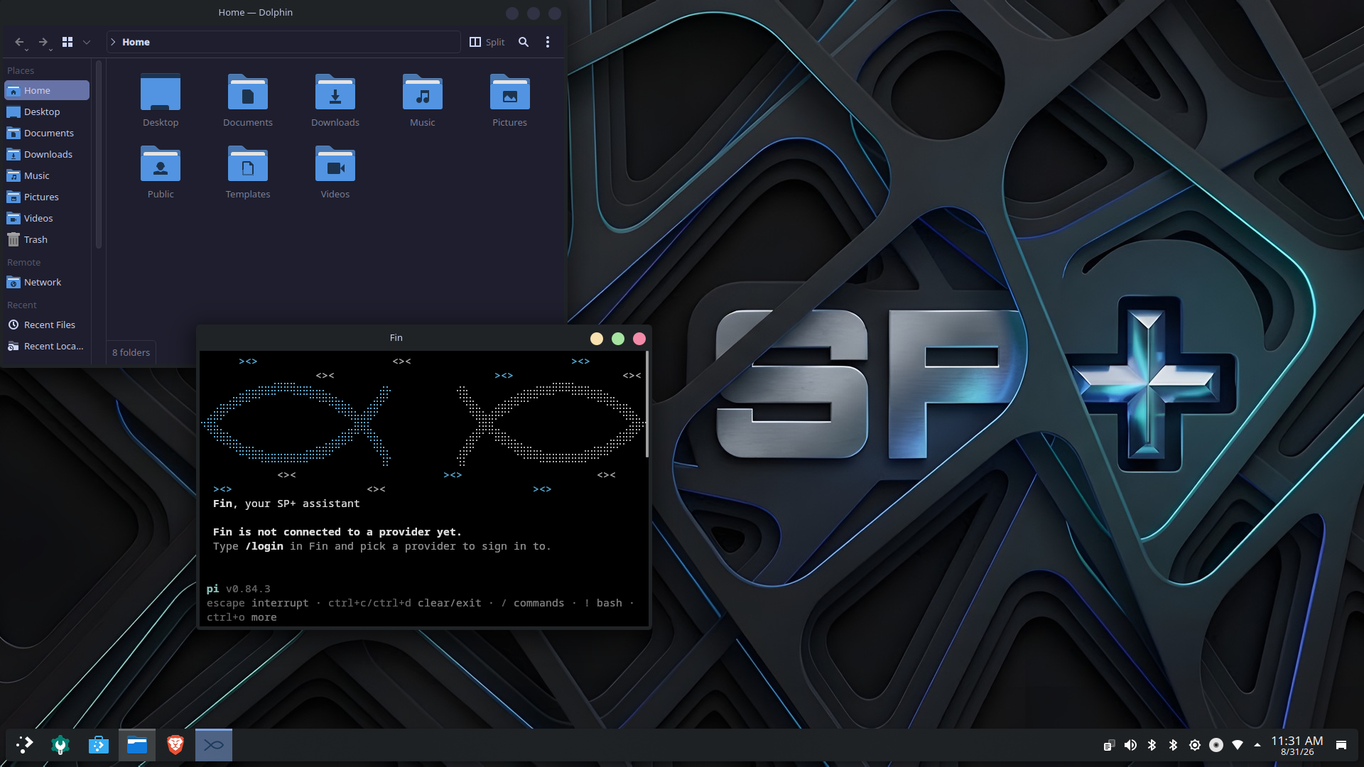
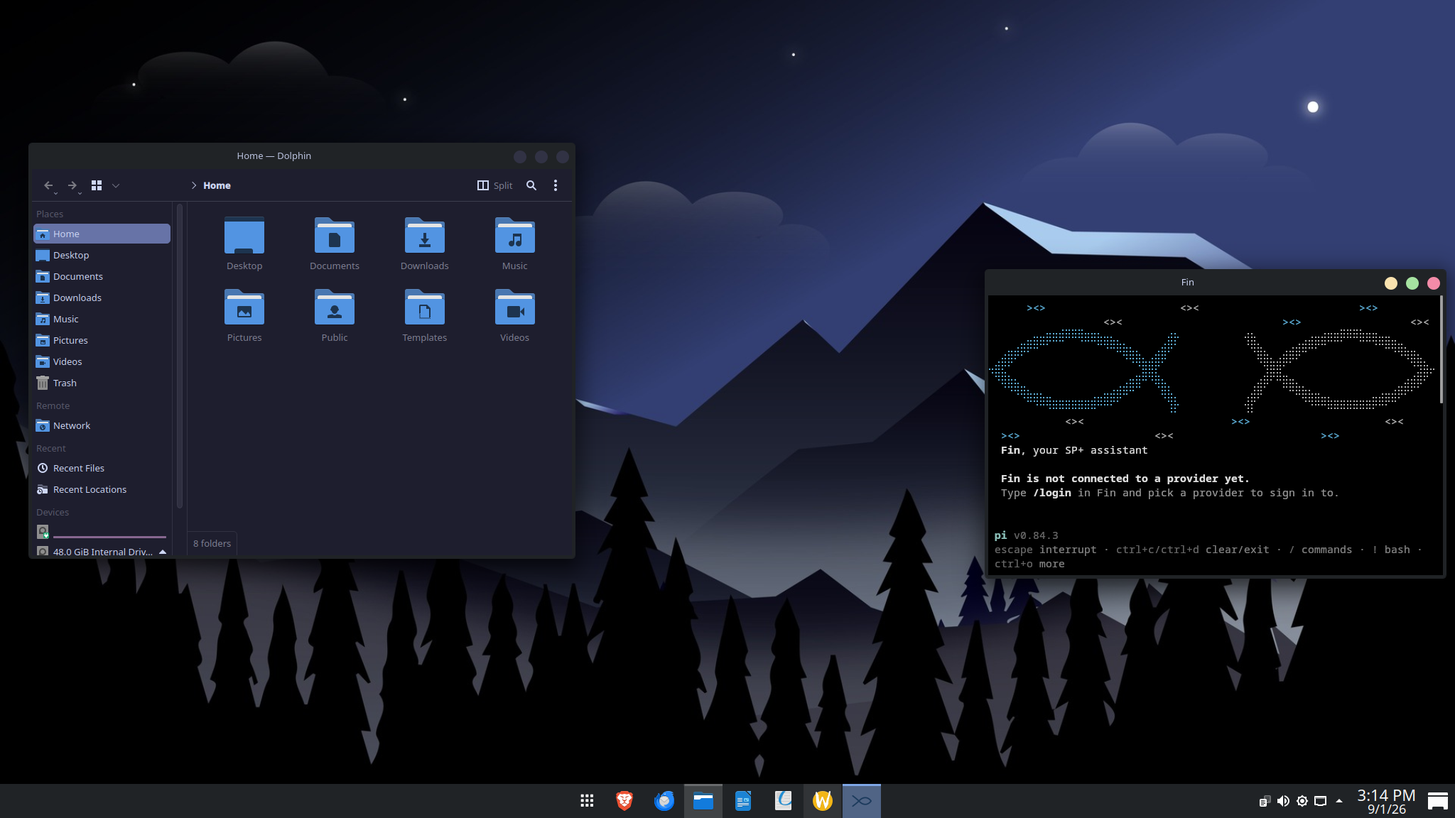
New theme previews and mini cards that show the theme
Eight fresh desktop previews, one per theme on the Welcome look screen,
2048x1152. Christopher staged each composition himself and I captured it
and drove the switch between shots, so every image is the real applied
session with its own wallpaper, window style, panel and Fin showing its
ichthys mark.

The mini cards no longer carry an abstract three-bar swatch. Each is a
miniature desktop: the theme's actual wallpaper as the ground, a thin
panel strip and a small window in the theme's own colours. Christopher's
complaint was that a card told an advisor nothing before they clicked
it, and three stacked rectangles are identical across eight themes while
the wallpaper is the thing that differs.

The first attempt at this failed and was sent back: the window mock
covered the middle two thirds of a 48px scene, so the wallpaper survived
only as slivers at the edges. The second inverts the balance, and adds a
per-theme object-position because a centre crop clips the moon in the
winter scene and the boat in the Breeze Dark one. It also clipped the
card taglines by 4px paying for the taller image out of the text plate;
the layout gate caught that, and the scene gave the 4px back.

Also logs a real defect found while testing rather than shipped past:
plasmashell segfaults in Mesa's software rasteriser during repeated
theme churn, three times in about eighty switches on the GPU-less VM.
Every wallpaper check passed in the crashing runs, so it recovers rather
[…]

diff --git a/projects/sp-plus/welcome/app/index.html b/projects/sp-plus/welcome/app/index.html
@@ -47,11 +47,11 @@
           <header class="page-title theme-page-title"><div><h1 id="look-title">CHOOSE THE LOOK<br>THAT FITS YOUR WORK.</h1><p>Each choice changes the whole desktop, not just the colours. You can change it later in System Settings.</p></div><div class="title-stamp"><span>A GOOD PLACE TO START</span><strong>WINDOWS DARK</strong></div></header>
           <section class="theme-choice" aria-labelledby="theme-choice-heading">
             <div class="choice-head"><h2 id="theme-choice-heading">START WITH WHAT FEELS FAMILIAR.</h2><p>A familiar place to begin.</p></div>
-            <div class="theme-gallery lead-gallery" role="radiogroup" aria-label="Familiar desktop themes"><button class="theme-card lead" role="radio" aria-checked="false" data-lnf="org.secureprospective.spplus.windows11.light" data-theme="WINDOWS LIGHT" data-preview="assets/theme-previews/windows-light.png" data-layout-reset="true" data-cursor-note="The mouse pointer stays standard for Windows Modern." style="--sw-bg:#f9f9f9;--sw-fg:#1e1e1e;--sw-view:#ffffff;--sw-accent:#0067c0"><span class="swatch" aria-hidden="true"><i class="sw-bar"></i><i class="sw-view"></i><i class="sw-accent"></i></span><span class="theme-meta"><b>WINDOWS LIGHT</b><small>A familiar starting point</small><em>A familiar layout with a lighter feel.</em></span></button><button class="theme-card lead selected" role="radio" aria-checked="true" data-lnf="org.secureprospective.spplus.windows11.dark" data-theme="WINDOWS DARK" data-preview="assets/theme-previews/windows-dark.png" data-layout-reset="true" data-cursor-note="The mouse pointer stays standard for Windows Modern." style="--sw-bg:#202020;--sw-fg:#ffffff;--sw-view:#202020;--sw-accent:#4cc2ff"><span class="swatch" aria-hidden="true"><i class="sw-bar"></i><i class="sw-view"></i><i class="sw-accent"></i></span><span class="theme-meta"><b>WINDOWS DARK</b><small>A familiar starting point</small><em>The same familiar layout, with less glare.</em></span></button></div>
+            <div class="theme-gallery lead-gallery" role="radiogroup" aria-label="Familiar desktop themes"><button class="theme-card lead" role="radio" aria-checked="false" data-lnf="org.secureprospective.spplus.windows11.light" data-theme="WINDOWS LIGHT" data-preview="assets/theme-previews/windows-light.png" data-layout-reset="true" data-cursor-note="The mouse pointer stays standard for Windows Modern." style="--sw-bg:#f9f9f9;--sw-fg:#1e1e1e;--sw-view:#ffffff;--sw-accent:#0067c0"><span class="swatch" aria-hidden="true"><img src="assets/theme-thumbs/windows-light.jpg" alt=""><i class="sw-bar"></i><i class="sw-view"></i><i class="sw-accent"></i></span><span class="theme-meta"><b>WINDOWS LIGHT</b><small>A familiar starting point</small><em>A familiar layout with a lighter feel.</em></span></button><button class="theme-card lead selected" role="radio" aria-checked="true" data-lnf="org.secureprospective.spplus.windows11.dark" data-theme="WINDOWS DARK" data-preview="assets/theme-previews/windows-dark.png" data-layout-reset="true" data-cursor-note="The mouse pointer stays standard for Windows Modern." style="--sw-bg:#202020;--sw-fg:#ffffff;--sw-view:#202020;--sw-accent:#4cc2ff"><span class="swatch" aria-hidden="true"><img src="assets/theme-thumbs/windows-dark.jpg" alt=""><i class="sw-bar"></i><i class="sw-view"></i><i class="sw-accent"></i></span><span class="theme-meta"><b>WINDOWS DARK</b><small>A familiar starting point</small><em>The same familiar layout, with less glare.</em></span></button></div>
             <div class="choice-head split"><h2>OR CHOOSE A LOOK BUILT FOR LONG DAYS.</h2><p>These options keep windows distinct and important cues easy to spot.</p></div>
             <div class="theme-columns">
-              <div class="theme-column"><h3>DARK</h3><div class="theme-gallery" role="radiogroup" aria-label="Dark productivity themes"><button class="theme-card" role="radio" aria-checked="false" data-lnf="org.kde.breezedark.desktop" data-theme="BREEZE DARK" data-preview="assets/theme-previews/breeze-dark.png" data-layout-reset="true" data-cursor-note="The mouse pointer follows this theme's declared cursor setting." style="--sw-bg:#202326;--sw-fg:#fcfcfc;--sw-view:#141618;--sw-accent:#3daee9"><span class="swatch" aria-hidden="true"><i class="sw-bar"></i><i class="sw-view"></i><i class="sw-accent"></i></span><span class="theme-meta"><b>BREEZE DARK</b><small>The built-in default</small><em>A calm dark layout with clear blue focus borders. The window you are using stays easy to find.</em></span></button><button class="theme-card" role="radio" aria-checked="false" data-lnf="Nordic" data-panel-source="standard" data-theme="NORDIC DARK" data-preview="assets/theme-previews/nordic-dark.png" data-layout-reset="true" data-cursor-note="The mouse pointer follows this theme's declared cursor setting." style="--sw-bg:#3b4252;--sw-fg:#d8dee9;--sw-view:#434c5e;--sw-accent:#8fbcbb"><span class="swatch" aria-hidden="true"><i class="sw-bar"></i><i class="sw-view"></i><i class="sw-accent"></i></span><span class="theme-meta"><b>NORDIC DARK</b><small>Made for lower glare</small><em>Muted blue-grey instead of harsh black. Teal selections and frost-blue sidebars help separate busy work.</em></span></button><button class="theme-card" role="radio" aria-checked="false" data-lnf="Catppuccin-Mocha" data-panel-source="standard" data-theme="CATPPUCCIN MOCHA" data-preview="assets/theme-previews/catppuccin-mocha.png" data-layout-reset="true" data-cursor-note="The mouse pointer follows this theme's declared cursor setting." style="--sw-bg:#181825;--sw-fg:#cdd6f4;--sw-view:#1e1e2e;--sw-accent:#89b4fa"><span class="swatch" aria-hidden="true"><i class="sw-bar"></i><i class="sw-view"></i><i class="sw-accent"></i></span><span class="theme-meta"><b>CATPPUCCIN MOCHA</b><small>Soft charcoal</small><em>Softer than true black to ease long days. Colours keep the same role across notifications, tabs and file trees.</em></span></button></div></div>
-              <div class="theme-column"><h3>LIGHT</h3><div class="theme-gallery" role="radiogroup" aria-label="Light productivity themes"><button class="theme-card" role="radio" aria-checked="false" data-lnf="org.kde.breeze.desktop" data-theme="BREEZE LIGHT" data-preview="assets/theme-previews/breeze-light.png" data-layout-reset="true" data-cursor-note="The mouse pointer follows this theme's declared cursor setting." style="--sw-bg:#eff0f1;--sw-fg:#232629;--sw-view:#ffffff;--sw-accent:#3daee9"><span class="swatch" aria-hidden="true"><i class="sw-bar"></i><i class="sw-view"></i><i class="sw-accent"></i></span><span class="theme-meta"><b>BREEZE LIGHT</b><small>The built-in default</small><em>A soft grey-white canvas with dark text and blue highlights. Window edges stay easy to see.</em></span></button><button class="theme-card" role="radio" aria-checked="false" data-lnf="com.github.vinceliuice.Orchis" data-theme="ORCHIS LIGHT" data-preview="assets/theme-previews/orchis-light.png" data-layout-reset="true" data-cursor-note="The mouse pointer follows this theme's declared cursor setting." style="--sw-bg:#f5f5f5;--sw-fg:#333333;--sw-view:#ffffff;--sw-accent:#4285f4"><span class="swatch" aria-hidden="true"><i class="sw-bar"></i><i class="sw-view"></i><i class="sw-accent"></i></span><span class="theme-meta"><b>ORCHIS LIGHT</b><small>Clearer surfaces</small><em>Subtle separation keeps toolbars and sidebars distinct, so you can see where controls end and work begins.</em></span></button><button class="theme-card" role="radio" aria-checked="false" data-lnf="Catppuccin-Latte" data-panel-source="standard" data-theme="CATPPUCCIN LATTE" data-preview="assets/theme-previews/catppuccin-latte.png" data-layout-reset="true" data-cursor-note="The mouse pointer follows this theme's declared cursor setting." style="--sw-bg:#e6e9ef;--sw-fg:#4c4f69;--sw-view:#eff1f5;--sw-accent:#1e66f5"><span class="swatch" aria-hidden="true"><i class="sw-bar"></i><i class="sw-view"></i><i class="sw-accent"></i></span><span class="theme-meta"><b>CATPPUCCIN LATTE</b><small>A gentler white</small><em>A warm cream backdrop with dark slate text. It mirrors Mocha, so moving between day and night stays familiar.</em></span></button></div></div>
+              <div class="theme-column"><h3>DARK</h3><div class="theme-gallery" role="radiogroup" aria-label="Dark productivity themes"><button class="theme-card" role="radio" aria-checked="false" data-lnf="org.kde.breezedark.desktop" data-theme="BREEZE DARK" data-preview="assets/theme-previews/breeze-dark.png" data-layout-reset="true" data-cursor-note="The mouse pointer follows this theme's declared cursor setting." style="--sw-bg:#202326;--sw-fg:#fcfcfc;--sw-view:#141618;--sw-accent:#3daee9"><span class="swatch" aria-hidden="true"><img src="assets/theme-thumbs/breeze-dark.jpg" alt=""><i class="sw-bar"></i><i class="sw-view"></i><i class="sw-accent"></i></span><span class="theme-meta"><b>BREEZE DARK</b><small>The built-in default</small><em>A calm dark layout with clear blue focus borders. The window you are using stays easy to find.</em></span></button><button class="theme-card" role="radio" aria-checked="false" data-lnf="Nordic" data-panel-source="standard" data-theme="NORDIC DARK" data-preview="assets/theme-previews/nordic-dark.png" data-layout-reset="true" data-cursor-note="The mouse pointer follows this theme's declared cursor setting." style="--sw-bg:#3b4252;--sw-fg:#d8dee9;--sw-view:#434c5e;--sw-accent:#8fbcbb"><span class="swatch" aria-hidden="true"><img src="assets/theme-thumbs/nordic-dark.jpg" alt=""><i class="sw-bar"></i><i class="sw-view"></i><i class="sw-accent"></i></span><span class="theme-meta"><b>NORDIC DARK</b><small>Made for lower glare</small><em>Muted blue-grey instead of harsh black. Teal selections and frost-blue sidebars help separate busy work.</em></span></button><button class="theme-card" role="radio" aria-checked="false" data-lnf="Catppuccin-Mocha" data-panel-source="standard" data-theme="CATPPUCCIN MOCHA" data-preview="assets/theme-previews/catppuccin-mocha.png" data-layout-reset="true" data-cursor-note="The mouse pointer follows this theme's declared cursor setting." style="--sw-bg:#181825;--sw-fg:#cdd6f4;--sw-view:#1e1e2e;--sw-accent:#89b4fa"><span class="swatch" aria-hidden="true"><img src="assets/theme-thumbs/catppuccin-mocha.jpg" alt=""><i class="sw-bar"></i><i class="sw-view"></i><i class="sw-accent"></i></span><span class="theme-meta"><b>CATPPUCCIN MOCHA</b><small>Soft charcoal</small><em>Softer than true black to ease long days. Colours keep the same role across notifications, tabs and file trees.</em></span></button></div></div>
+              <div class="theme-column"><h3>LIGHT</h3><div class="theme-gallery" role="radiogroup" aria-label="Light productivity themes"><button class="theme-card" role="radio" aria-checked="false" data-lnf="org.kde.breeze.desktop" data-theme="BREEZE LIGHT" data-preview="assets/theme-previews/breeze-light.png" data-layout-reset="true" data-cursor-note="The mouse pointer follows this theme's declared cursor setting." style="--sw-bg:#eff0f1;--sw-fg:#232629;--sw-view:#ffffff;--sw-accent:#3daee9"><span class="swatch" aria-hidden="true"><img src="assets/theme-thumbs/breeze-light.jpg" alt=""><i class="sw-bar"></i><i class="sw-view"></i><i class="sw-accent"></i></span><span class="theme-meta"><b>BREEZE LIGHT</b><small>The built-in default</small><em>A soft grey-white canvas with dark text and blue highlights. Window edges stay easy to see.</em></span></button><button class="theme-card" role="radio" aria-checked="false" data-lnf="com.github.vinceliuice.Orchis" data-theme="ORCHIS LIGHT" data-preview="assets/theme-previews/orchis-light.png" data-layout-reset="true" data-cursor-note="The mouse pointer follows this theme's declared cursor setting." style="--sw-bg:#f5f5f5;--sw-fg:#333333;--sw-view:#ffffff;--sw-accent:#4285f4"><span class="swatch" aria-hidden="true"><img src="assets/theme-thumbs/orchis-light.jpg" alt=""><i class="sw-bar"></i><i class="sw-view"></i><i class="sw-accent"></i></span><span class="theme-meta"><b>ORCHIS LIGHT</b><small>Clearer surfaces</small><em>Subtle separation keeps toolbars and sidebars distinct, so you can see where controls end and work begins.</em></span></button><button class="theme-card" role="radio" aria-checked="false" data-lnf="Catppuccin-Latte" data-panel-source="standard" data-theme="CATPPUCCIN LATTE" data-preview="assets/theme-previews/catppuccin-latte.png" data-layout-reset="true" data-cursor-note="The mouse pointer follows this theme's declared cursor setting." style="--sw-bg:#e6e9ef;--sw-fg:#4c4f69;--sw-view:#eff1f5;--sw-accent:#1e66f5"><span class="swatch" aria-hidden="true"><img src="assets/theme-thumbs/catppuccin-latte.jpg" alt=""><i class="sw-bar"></i><i class="sw-view"></i><i class="sw-accent"></i></span><span class="theme-meta"><b>CATPPUCCIN LATTE</b><small>A gentler white</small><em>A warm cream backdrop with dark slate text. It mirrors Mocha, so moving between day and night stays familiar.</em></span></button></div></div>
             </div>
             <p class="preview-note" id="theme-detail">Choose a theme to see a verified preview. Nothing changes until you choose Apply.</p>
           </section>

diff --git a/projects/sp-plus/welcome/app/app.css b/projects/sp-plus/welcome/app/app.css
@@ -24,7 +24,7 @@ h1,h2,p{margin:0}h1{font-family:'Noto Sans Condensed Black','Noto Sans Condensed
   h1{font-size:clamp(38px,4.1vw,62px);line-height:.86}
   .page-title{gap:24px;margin-bottom:14px}.page-title p{max-width:600px;margin-top:11px;font-size:15px;line-height:1.35}.title-stamp{margin-top:0;padding:8px 0}.controls{min-height:74px;padding-block:10px}
   .welcome-screen.active{grid-template-columns:minmax(390px,1.4fr) minmax(260px,.75fr);grid-template-rows:1fr auto;gap:18px}.welcome-copy h1{font-size:clamp(52px,5.6vw,82px)}.welcome-copy p{max-width:500px;margin-top:17px;font-size:17px;line-height:1.35}.welcome-manifest div{gap:5px;padding:14px}.welcome-manifest strong{font-size:15px}.welcome-side-note{padding-top:10px}.welcome-side-note p{font-size:10px}
-  .theme-page-title{margin-bottom:9px}.theme-page-title p{max-width:610px}.theme-gallery{gap:10px}.theme-card img{height:104px}.theme-meta{padding:7px 8px}.theme-meta b{font-size:11px}.theme-meta small{font-size:9px}.choice-head h2{font-size:21px}.choice-head p{font-size:11px}.theme-adjustments{margin-top:9px;padding-top:9px}.adjustment-intro h2{font-size:19px}.adjustment-intro p{font-size:10px}.adjustment-option{min-height:30px;font-size:8px}.adjustment-group legend{margin-bottom:5px}.preview-note{margin-top:6px;font-size:9px}.theme-boundary{margin-top:7px}.theme-columns{gap:11px}.theme-column .theme-gallery{gap:6px}.theme-card .swatch{height:18px}.lead-gallery .theme-card .swatch{height:32px}.theme-meta em{font-size:8px}
+  .theme-page-title{margin-bottom:9px}.theme-page-title p{max-width:610px}.theme-gallery{gap:10px}.theme-card img{height:104px}.theme-meta{padding:7px 8px}.theme-meta b{font-size:11px}.theme-meta small{font-size:9px}.choice-head h2{font-size:21px}.choice-head p{font-size:11px}.theme-adjustments{margin-top:9px;padding-top:9px}.adjustment-intro h2{font-size:19px}.adjustment-intro p{font-size:10px}.adjustment-option{min-height:30px;font-size:8px}.adjustment-group legend{margin-bottom:5px}.preview-note{margin-top:6px;font-size:9px}.theme-boundary{margin-top:7px}.theme-columns{gap:11px}.theme-column .theme-gallery{gap:6px}.theme-card .swatch{height:58px}.lead-gallery .theme-card .swatch{height:70px}.theme-meta em{font-size:8px}
   .map-stage{min-height:0;height:calc(100% - 156px)}.desktop-map{min-height:0;padding:24px}.map-window{gap:13px}.help-station{padding:18px}.ask-form{margin-top:9px}.ask-feedback{max-height:100px}.trail-card,.article-link{min-height:69px;padding:9px}.trail-card small,.article-link small{margin-top:5px}.article-reader{max-height:210px}
   .office-screen .page-title{margin-bottom:12px}.office-screen .page-title p{max-width:540px}.office-grid{gap:11px}.office-lane{min-height:0;height:317px;padding:13px}.office-lane p{margin:11px 0;font-size:12px}.form-grid{gap:4px}.form-grid label{grid-template-columns:102px 1fr;font-size:10px}.form-grid input{padding:5px;font-size:11px}.office-lane .checkline{margin:8px 0}.office-lane fieldset{gap:7px}.office-lane .text-button{margin-top:4px}.ledger-callout{margin-top:12px;padding:9px 0}.ledger-callout p{font-size:11px;line-height:1.35}
   .fin-screen .page-title{margin-bottom:12px}.fin-stage{height:390px}.fin-brief{min-height:0;padding:22px}.fin-brief h2{font-size:clamp(34px,3.6vw,52px)}.fin-brief p{margin:16px 0;font-size:13px}.fin-ledger{padding:22px}.fin-ledger div{padding:10px 0}.fin-ledger strong{font-size:15px}.fin-ledger p{padding-top:12px;font-size:11px}
@@ -41,24 +41,39 @@ h1,h2,p{margin:0}h1{font-family:'Noto Sans Condensed Black','Noto Sans Condensed
 .article-reader{max-height:none;overflow:auto;padding:2px 0;font-size:11px;line-height:1.38}.article-reader h1{font-size:23px}.article-reader h2{margin:9px 0 3px;font-size:15px}.article-reader p{margin:4px 0}.article-reader li{margin:2px 0}}
 .stock-theme-list{display:flex;align-items:center;gap:7px;margin-top:6px;color:var(--fine);font-size:8px;font-weight:700;letter-spacing:.05em}.stock-theme-list>span{margin-right:auto}.stock-theme{padding:3px 6px;border:1px solid var(--ink);background:var(--white);color:var(--ink);font:inherit;font-size:8px;font-weight:800;letter-spacing:.06em}.stock-theme:hover,.stock-theme.selected{background:var(--blue);color:var(--white)}
 
-/* Global theme picker. Eight themes in one viewport (SP+ Welcome never scrolls),
-   so the cards are swatch-led rather than image-led. Each swatch is drawn from
-   the theme's own colour scheme -- window ground, workspace ground, focus colour
-   -- so it is evidence, not an artist's impression of a desktop. */
+/* Global theme picker. Every card is a compact desktop scene: the installed
+   wallpaper is the ground, then the theme colours define a panel, window, and
+   active detail. The image is decorative; the card label remains in the solid
+   metadata plate below it. */
 .lead-gallery{grid-template-columns:repeat(2,minmax(0,1fr))}
 .choice-head.split{margin-top:11px;padding-top:9px;border-top:var(--line)}
 .theme-columns{display:grid;grid-template-columns:1fr 1fr;gap:14px;margin-top:8px}
 .theme-column h3{color:var(--blue);font-size:9px;font-weight:800;letter-spacing:.09em;text-transform:uppercase}
 .theme-column .theme-gallery{grid-template-columns:1fr;gap:7px;margin-top:5px}
 .theme-card{grid-template-rows:auto}
-.theme-card .swatch{display:grid;grid-template-columns:1fr 1fr auto;height:22px;border-bottom:var(--line);background:var(--sw-bg)}
-.theme-card .swatch i{position:static;display:block;border:0;padding:0;height:100%}
-.swatch .sw-bar{background:var(--sw-bg)}
-.swatch .sw-view{background:var(--sw-view)}
-.swatch .sw-accent{width:26px;background:var(--sw-accent)}
+.theme-card .swatch{position:relative;display:block;height:76px;overflow:hidden;isolation:isolate;border-bottom:var(--line);background:var(--sw-bg)}
+.theme-card .swatch::before{content:"";position:absolute;z-index:1;inset:0;background:var(--sw-bg);opacity:.1}
+.theme-card .swatch img{position:absolute;z-index:0;inset:0;display:block;width:100%;height:100%;object-fit:cover;object-position:center;background:var(--sw-bg)}
+.theme-card .swatch i{position:absolute;z-index:2;display:block;margin:0;padding:0;border:0}
+.swatch .sw-bar{right:0;bottom:0;left:0;height:7px;background:var(--sw-bg);border-top:1px solid var(--sw-fg)}
+.swatch .sw-view{top:12%;left:8%;width:28%;height:32%;background:var(--sw-view);border:1px solid var(--sw-fg);box-shadow:2px 2px 0 var(--sw-fg);opacity:.92}
+.swatch .sw-view::before{content:"";position:absolute;top:0;right:0;left:0;height:4px;border-bottom:1px solid var(--sw-fg);background:var(--sw-bg)}
+.swatch .sw-view::after{content:"";position:absolute;right:7%;bottom:12%;width:28%;height:4px;background:var(--sw-accent);border:1px solid var(--sw-fg)}
+.swatch .sw-accent{right:10%;bottom:1px;width:18px;height:5px;background:var(--sw-accent);border:1px solid var(--sw-fg)}
 .theme-card .theme-meta{border-top:0}
+
+/* The crop is intentionally per theme because each source image puts its
+   subject at a different vertical point. The shared scene stays shared. */
+.theme-card[data-theme="WINDOWS LIGHT"] .swatch img{object-position:50% 58%}
+.theme-card[data-theme="WINDOWS DARK"] .swatch img{object-position:50% 53%}
+.theme-card[data-theme="BREEZE DARK"] .swatch img{object-position:50% 82%}
+.theme-card[data-theme="NORDIC DARK"] .swatch img{object-position:50% 18%}
+.theme-card[data-theme="CATPPUCCIN MOCHA"] .swatch img{object-position:50% 35%}
+.theme-card[data-theme="BREEZE LIGHT"] .swatch img{object-position:50% 20%}
+.theme-card[data-theme="ORCHIS LIGHT"] .swatch img{object-position:50% 58%}
+.theme-card[data-theme="CATPPUCCIN LATTE"] .swatch img{object-position:50% 30%}
 .theme-meta em{color:var(--fine);font-size:9px;font-style:normal;line-height:1.3}
-.lead-gallery .theme-card .swatch{height:40px}
+.lead-gallery .theme-card .swatch{height:88px}
 .lead-gallery .theme-meta em{font-size:10px}
 
 /* DN-42: the Fin check summary. It ships as its OWN surface -- explicit
@@ -152,22 +167,18 @@ h1,h2,p{margin:0}h1{font-family:'Noto Sans Condensed Black','Noto Sans Condensed
   .title-stamp{padding:4px 0}
   .choice-head h2{font-size:17px}
   .choice-head.split{margin-top:7px;padding-top:6px}
-  .lead-gallery .theme-card .swatch{height:24px}
-  .theme-choice{padding-top:6px}
+  .theme-card .swatch{height:56px}.lead-gallery .theme-card .swatch{height:64px}
+  .theme-choice{padding-top:6px}.theme-column .theme-gallery{gap:5px}.theme-meta{padding:6px 8px}
 
-  /* Even with the furniture trimmed, a card in the six-deep columns is 78px
-     tall at 1280x800 and 72px at 1024x768, while its full contents need 89px.
-     The measured result was the descriptor sentence being cut through the
-     middle of its line -- present enough to read as broken, not enough to
-     read. So on this tier the six secondary cards carry their name and their
-     one-line tagline and drop the sentence, which is a deliberate choice
-     rather than a clip: the full description is what the preview panel exists
-     to show, and it appears there the moment a card is selected.
-
-     The two lead cards keep theirs. They are on a two-across row with 98px to
-     work with and were never short of space. */
+  /* The short desktop tier gives the wallpaper more room without reopening
+     the descriptor sentence. Secondary cards keep their name and one-line
+     tagline in a compact solid plate; the full description remains in the
+     preview panel when a card is selected. The smaller plate and five-pixel
+     row gaps pay for the 60px secondary scenes and 68px lead scenes while
+     keeping the existing no-scroll hierarchy. The two lead cards keep their
+     descriptions because their two-across row has more room. */
   .theme-column .theme-card .theme-meta em{display:none}
-  .theme-column .theme-card .theme-meta{padding:6px 8px;gap:1px}
+  .theme-column .theme-card .theme-meta{padding:5px 8px;gap:1px}.theme-column .theme-card .theme-meta small{line-height:1.1}
 }
 
 /* Services are one bounded handoff surface. The status checks stay visible on the

diff --git a/projects/sp-plus/docs/ledger/DEFECT-plasmashell-segv-theme-churn.md b/projects/sp-plus/docs/ledger/DEFECT-plasmashell-segv-theme-churn.md
@@ -1,0 +1,77 @@
+# DEFECT: plasmashell segfaults during repeated theme switching (VM only so far)
+
+Status: **OPEN, logged for hardware testing.** Christopher's call on 2026-09-01
+was to log it rather than chase it now.
+
+## What happens
+
+`plasmashell` dies with SIGSEGV during a run that walks all eight Welcome
+themes with layout resets. It is restarted automatically and the desktop
+recovers. Christopher saw the resulting drkonqi crash dialogs on the VM's
+screen, which is how this was found: the theme gate was reporting a clean pass
+at the time, because it only checked the wallpaper and never asked whether
+anything had died getting there.
+
+## Measured rate
+
+Three SIGSEGVs across roughly 80 theme switches, about 4 percent, all on the
+test VM.
+
+| Exercise | Switches | Crashes |
+|---|---|---|
+| Full eight-theme walk plus double round trip, run 1 | 20 | 1 |
+| Same, run 2 | 20 | 0 |
+| Same, earlier run | 20 | 1 |
+| Windows Light to Windows Dark only, old unchanged wallpaper | 10 | 0 |
+| Catppuccin Mocha to Latte only, new wallpapers incl. the 8K one | 10 | 0 |
+
+## What the crash is
+
+Both captured backtraces are inside Mesa's software rasteriser, on the Qt
+scene-graph render thread, but at DIFFERENT call sites:
+
+- `llvmpipe_texture_layout` then `posix_memalign` then `sysmalloc_mmap`,
+  reached from `st_TexImage` and `QGles2Texture::create`, i.e. uploading a
+  texture.
+- `llvmpipe_draw_vbo`, i.e. drawing.
+
+The VM reports `Compositing Type: OpenGL`, `Driver: LLVMpipe`,
+`GPU class: Unknown`. There is no GPU, so every wallpaper pixel goes through
+the CPU.
+
+## Hypotheses tested and REFUTED
+
+- **"The new 7680x4320 wallpaper is too large for llvmpipe."** Refuted. Ten
+  switches between the two Catppuccins, one of which ships that 8K image,
+  produced zero crashes, and ten switches on the old unchanged wallpaper also
+  produced zero. Two different call sites also argue against one bad texture.
+- **"The machine ran out of memory."** Refuted. Zero kernel OOM kills, 7.9 GB
+  RAM with 5.5 GB available and zram swap unused.
+- **"The crashes were the test harness."** Partly true and partly not. An
+  early broken run without a session bus produced 21 `plasma-apply-lookandfeel`
+  aborts, and those were harness noise. The three `plasmashell` SIGSEGVs are
+  not: they occur in runs that otherwise pass every check.
+
+## What it does NOT break
+
+Every wallpaper check passed in the crashing runs as well, 20 of 20. The right
+wallpaper is on the desktop afterwards. This is a shell that falls over under
+churn and recovers, not a theme switch that produces a wrong result.
+
+## Why it is not fixed yet
+
+The cause is not established, only characterised. The two things that would
+settle it are the Dell, which has real graphics and may not use this software
+path at all, and a human-realistic pattern: an advisor switches theme once or
+twice, not eighty times in a row. Christopher's own acceptance test, Breeze to
+Windows and back twice, passes clean.
+
+## What to do next
+
+Run `tests/theme-wallpaper-roundtrip.sh` on the Dell. It now counts coredumps
+before and after and fails on any new one, so it will answer this directly. If
+the Dell is clean across several full runs, this is a GPU-less VM artefact and
+should be recorded as such rather than fixed. If the Dell crashes too, it is a
+real product defect and blocks the ISO.
+
+Do not guess at a fix before that measurement exists.
